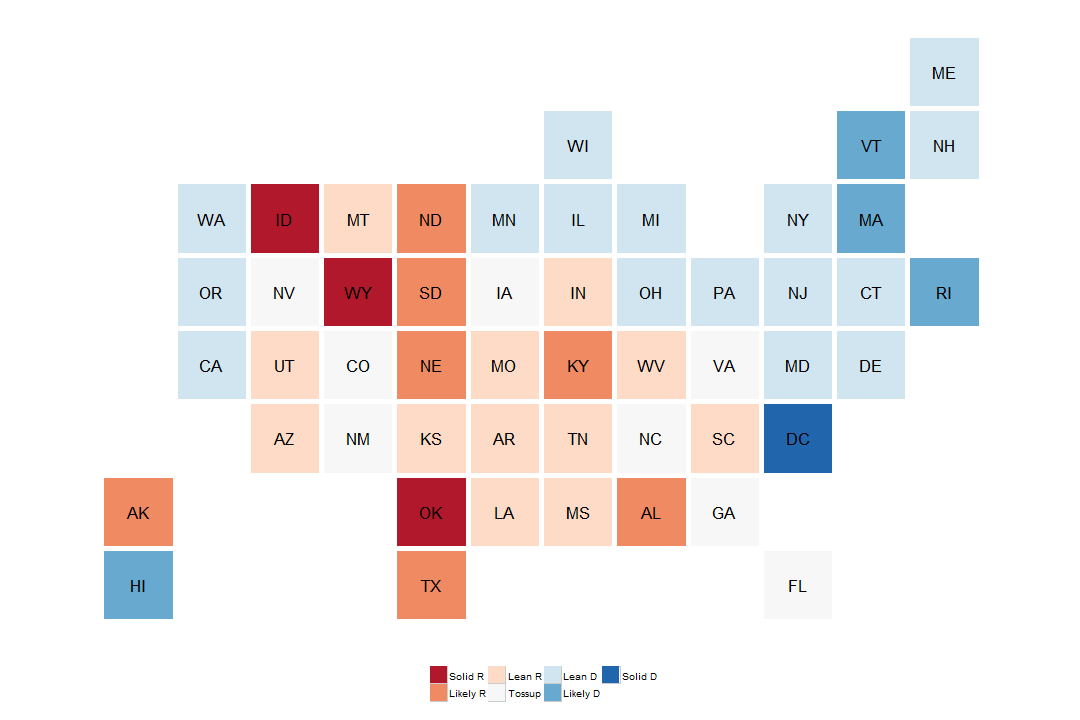
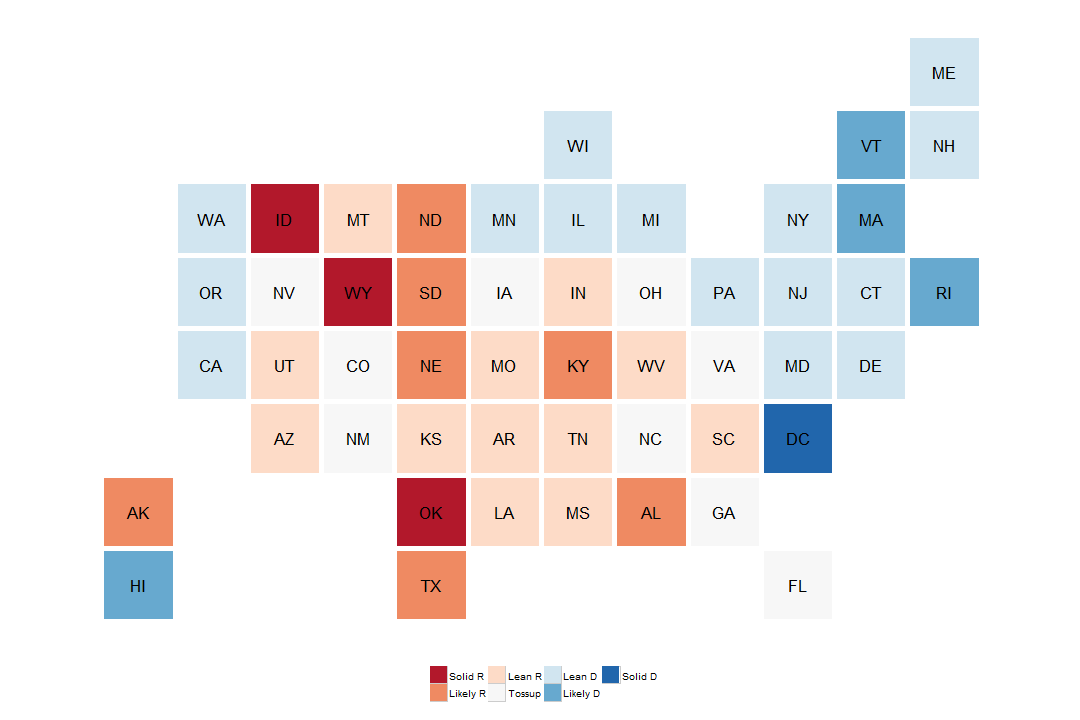
update

Changed region(s): [[0.55, 0.3361, 0.6417, 0.4583]]

diff --git a/index.html b/index.html
@@ -148,7 +148,7 @@ th {
           <p></p>
           <p></p>
       <div class="container" style="text-align: center;">
-        <h1><div class="alert alert-info" role="alert">Hillary Clinton has a 78.6% chance of being president</div></h1>    
+        <h1><div class="alert alert-info" role="alert">Hillary Clinton has a 76.6% chance of being president</div></h1>    
       </div>
         </div>
           <div style="text-align:right;">
@@ -476,8 +476,8 @@ th {
             <td>Ohio</td>
             <td>18</td>
             <td>Clinton</td>
-            <td>79.4%</td>
-            <td>+7.2</td>
+            <td>68.4%</td>
+            <td>+4.4</td>
           </tr>
           <tr>
             <td>Oklahoma</td>
@@ -497,8 +497,8 @@ th {
             <td>Pennsylvania</td>
             <td>20</td>
             <td>Clinton</td>
-            <td>87.7%</td>
-            <td>+11.3</td>
+            <td>78.3%</td>
+            <td>+8.1</td>
           </tr>
           <tr>
             <td>Rhode Island</td>
